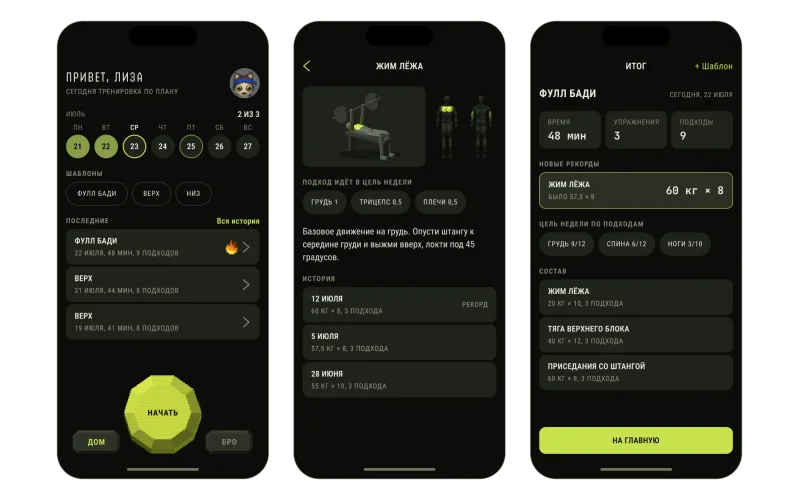
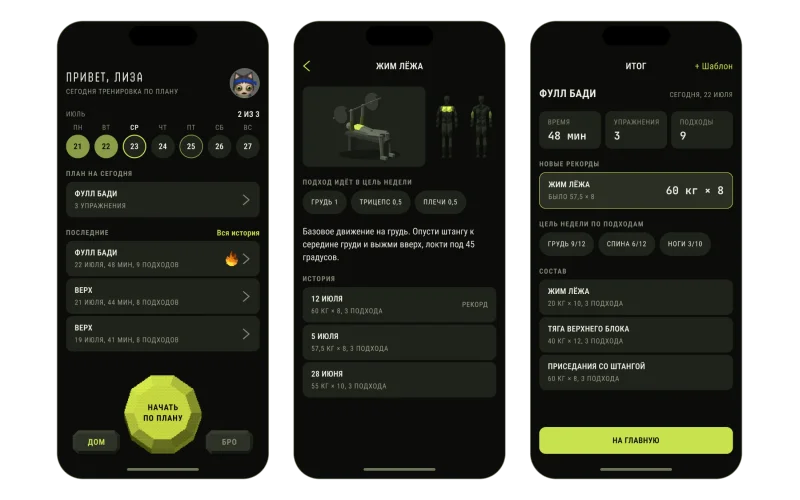
Gym Bro: new cover, workout flow, first launch and plan home screens
The home with "План на сегодня" and "Идёт сейчас" goes under the new
decision 3. Hero preview and link preview are cut from the new cover.

Claude-Session: https://claude.ai/code/session_016deTy2BBLLhJceshsmTCAT

diff --git a/cases/gym-bro.html b/cases/gym-bro.html
@@ -244,6 +244,11 @@
 
         <p><strong>Главная говорит, что происходит.</strong> Если тренировка уже идёт, на главной крупная карточка «Идёт сейчас»: название, сколько минут и сколько подходов записано, и кнопка «Завершить как есть». Раньше об этом говорила только подпись «Продолжить» на кнопке. Тап по дню в календаре открывает шторку «Эта неделя»: можно перенести тренировку на другой день, а ссылка «Весь план» ведёт к настройке плана.</p>
 
+        <figure class="case-figure case-figure--cutout">
+          <img class="case-figure__img--pair" src="/src/assets/cases/gym-bro/home-plan.webp" alt="Главная с карточкой «План на сегодня» и кнопкой «Начать по плану», и главная с карточкой «Идёт сейчас»" width="1828" height="1864" loading="lazy" decoding="async" />
+          <figcaption>Главная: план на сегодня и тренировка, которая идёт.</figcaption>
+        </figure>
+
         <h3 id="bro">4. Напарник без ленты</h3>
         <p>Напарник это фича, которую я раньше не встречала в спортивных приложениях. И её легко испортить: стоит добавить комментарии и список активности, и получится маленькая соцсеть, в которую заходят вместо тренировки.</p>
         <p>Поэтому механика держится на трёх слоях.</p>
